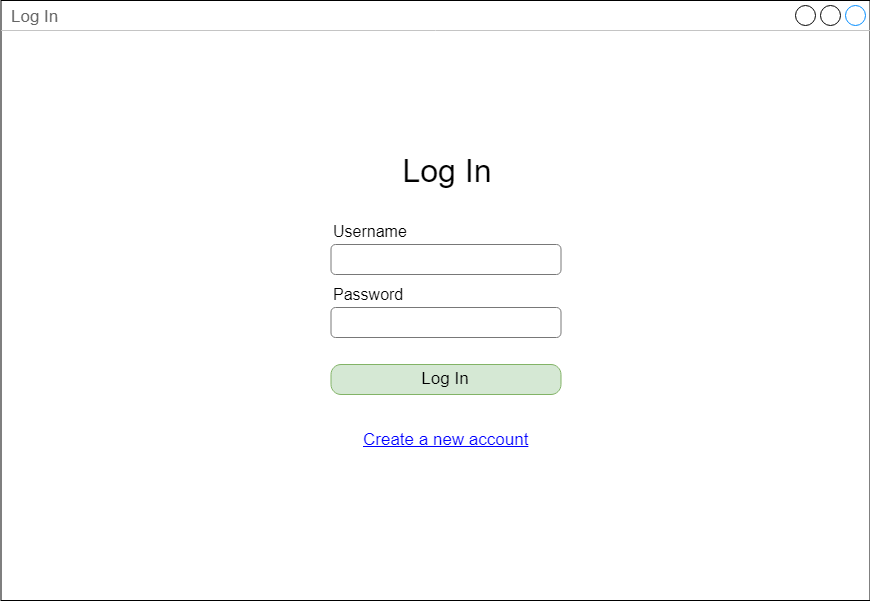
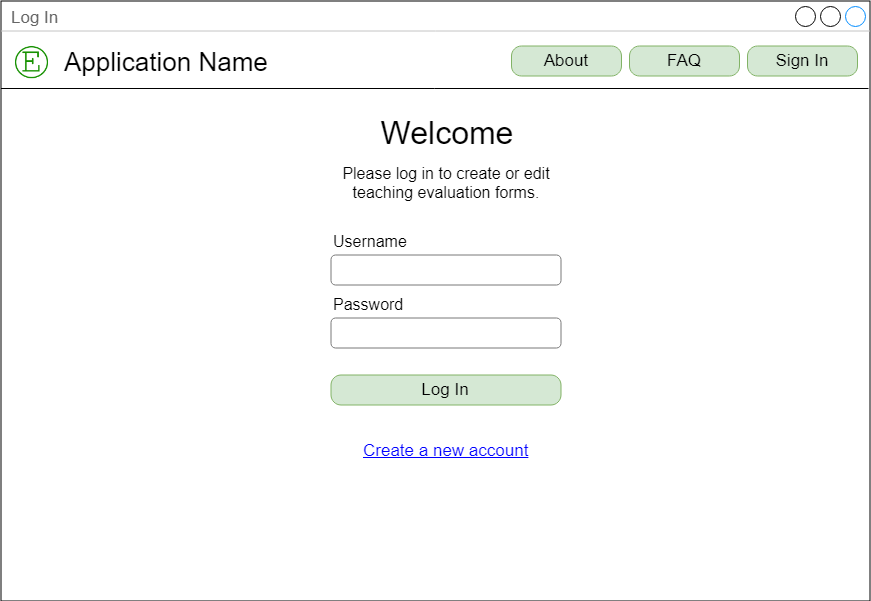
Added New Screens
Updated screen images and updated the document to reflect.

Descriptions have NOT been changed

diff --git a/documents/uidd.tex b/documents/uidd.tex
@@ -120,8 +120,24 @@ A user would enter a valid username and password and login. Clicking `Log In' ad
 \begin{center}
 \begin{figure}[H]
     \centering
-    \caption{Selection screen}
-    \includegraphics[scale=.35]{images/selection_screen.png}
+    \caption{FAQ Screen}
+    \includegraphics[scale=.35]{images/faq.png}
+\end{figure}
+\end{center}
+
+\begin{center}
+\begin{figure}[H]
+    \centering
+    \caption{About screen}
+    \includegraphics[scale=.35]{images/about_screen.png}
+\end{figure}
+\end{center}
+
+\begin{center}
+\begin{figure}[H]
+    \centering
+    \caption{Home screen}
+    \includegraphics[scale=.35]{images/home_screen.png}
 \end{figure}
 \end{center}
 
@@ -131,7 +147,7 @@ This is the main screen a user would see after they login. They can choose to cr
 \begin{figure}[H]
     \centering
     \caption{New form screen}
-    \includegraphics[scale=.35]{images/new_form_screen.png}
+    \includegraphics[scale=.35]{images/create_screen.png}
 \end{figure}
 \end{center}
 
@@ -140,8 +156,8 @@ This is the page a user would see if they decided to create a new survey. This p
 \begin{center}
 \begin{figure}[H]
     \centering
-    \caption{Info edit screen}
-    \includegraphics[scale=.35]{images/info_edit_screen.png}
+    \caption{Edit Info screen}
+    \includegraphics[scale=.35]{images/edit_info_screen.png}
 \end{figure}
 \end{center}
 
@@ -151,7 +167,7 @@ Much similar to the new form screen, a user would enter this screen when they ch
 \begin{figure}[H]
     \centering
     \caption{Question edit screen}
-    \includegraphics[scale=.35]{images/question_edit_screen.png}
+    \includegraphics[scale=.35]{images/question_screen.png}
 \end{figure}
 \end{center}
 
@@ -161,7 +177,7 @@ This is the second page a user would see when they are creating a course survey.
 \begin{figure}[H]
     \centering
     \caption{E-mail edit screen}
-    \includegraphics[scale=.35]{images/email_edit_screen.png}
+    \includegraphics[scale=.35]{images/email_screen.png}
 \end{figure}
 \end{center}
 
@@ -176,16 +192,6 @@ This is the final page a user would see when creating a new course survey. It as
 \end{center}
 
 This page is where a user would view results of their surveys, organized by each question in the survey. It includes the median, mean, standard deviation, and number of answers for each question.
-
-\begin{center}
-\begin{figure}[H]
-    \centering
-    \caption{Help screen}
-    \includegraphics[scale=.35]{images/help_screen.png}
-\end{figure}
-\end{center}
-
-This is the screen a user would see if they asked for help at any point in the process. It details each screen and what is being asked of the user.
 
 \section{Data Validation}
 
